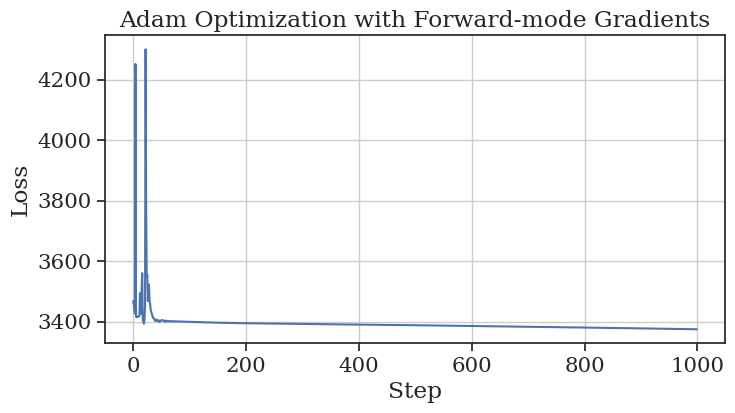
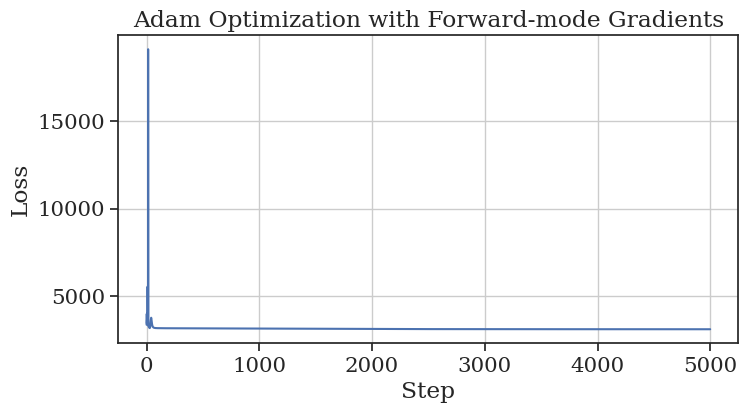
hmc trial

diff --git a/example/ogle-2003-blg-235/3_hmc_run.py b/example/ogle-2003-blg-235/3_hmc_run.py
@@ -1,0 +1,111 @@
+import numpy as np
+import VBBinaryLensing
+import matplotlib.pyplot as plt
+import seaborn as sns
+sns.set_theme(font="serif", style="ticks", font_scale=1.4)
+
+import jax.numpy as jnp
+import jax
+from jax import jit, jacfwd
+jax.config.update("jax_enable_x64", True)
+
+from microjax.inverse_ray.lightcurve import mag_binary
+from microjax.likelihood import nll_ulens
+import corner
+
+# --- データ読み込み ---
+data_moa  = np.load("example/ogle-2003-blg-235/flux_moa.npy")
+data_ogle = np.load("example/ogle-2003-blg-235/flux_ogle.npy")
+fs_ogle, fb_ogle = 9.072, 2.856
+t_moa, flux_moa, fluxe_moa = data_moa[0] - 2450000, data_moa[1], data_moa[2]
+t_ogle, flux_ogle, fluxe_ogle = data_ogle[0] - 2450000, data_ogle[1], data_ogle[2]
+t_data     = np.hstack([t_moa, t_ogle])
+flux_data  = np.hstack([flux_moa, flux_ogle])
+fluxe_data = np.hstack([fluxe_moa, fluxe_ogle])
+data_input = (t_data, flux_data, fluxe_data)
+
+#exit(1)
+# define time function
+@jit
+def mag_binary_time(time, params):
+    t0, tE, u0  = params[0:3]
+    q, s, alpha = params[3:6]
+    rho = params[6]
+    tau = (time - t0)/tE
+    y1 = -u0*jnp.sin(alpha) + tau*jnp.cos(alpha)
+    y2 = u0*jnp.cos(alpha) + tau*jnp.sin(alpha) 
+    w_points = jnp.array(y1 + y2 * 1j, dtype=complex)
+    
+    Nlimb = 500
+    r_resolution  = 500
+    th_resolution = 500
+    MAX_FULL_CALLS = 20
+    cubic = True
+    bins_r = 50
+    bins_th = 120
+    margin_r = 1.0
+    margin_th= 1.0
+    
+    magn = mag_binary(w_points, rho, s=s, q=q, r_resolution=r_resolution, 
+                      th_resolution=th_resolution,cubic=cubic, Nlimb=Nlimb, 
+                      bins_r=bins_r, bins_th=bins_th, margin_r=margin_r, margin_th=margin_th, 
+                      MAX_FULL_CALLS=MAX_FULL_CALLS)
+    return magn
+
+import numpyro
+import numpyro.distributions as dist
+from numpyro.infer import MCMC, NUTS
+
+def model(data, L, init_val):
+    times, flux, fluxe = data
+    param_base = numpyro.sample('param_base', dist.Uniform(-1*jnp.ones(len(init_val)), jnp.ones(len(init_val))))
+    param_true = jnp.dot(L * 100, param_base) + jnp.array(init_val)
+    numpyro.deterministic('param',param_true)
+    mags = mag_binary_time(times, param_true)
+    M = jnp.stack([mags - 1.0, jnp.ones_like(mags)], axis=1)
+    sigma2_obs = fluxe ** 2
+    sigma2_fs = 1e9
+    sigma2_fb = 1e9
+    nll = nll_ulens(flux, M, sigma2_obs, sigma2_fs, sigma2_fb)
+    numpyro.factor("log_likelihood", -nll)
+
+params_init = np.load("example/ogle-2003-blg-235/adam_fwd_params.npz")
+print(list(params_init.keys()))
+params_init = jnp.array([params_init["t0"], params_init["tE"], params_init["u0"],
+                         10**params_init["log_q"], 10**params_init["log_s"], 
+                         params_init["alpha"], 10**params_init["log_rho"]])
+print(params_init)
+fisher_matrix = np.load("example/ogle-2003-blg-235/fisher_matrix.npy")
+fisher_cov = jnp.linalg.inv(fisher_matrix)
+L = jnp.linalg.cholesky(fisher_cov + 1e-9 * jnp.eye(fisher_cov.shape[0]) )
+param_stddev = jnp.sqrt(jnp.diag(fisher_cov))
+print("1 sigma:\n", param_stddev)
+print("fisher_cov:", fisher_cov)
+print("cholesky:", L)
+
+from numpyro.infer import init_to_value
+init_strategy=numpyro.infer.init_to_value(values={'param_base':jnp.zeros(len(params_init))})
+kernel = NUTS(model,
+              init_strategy=init_strategy, 
+              forward_mode_differentiation=True,
+              target_accept_prob=0.8,
+              #inverse_mass_matrix=fisher_matrix,
+              #dense_mass=True,
+              )
+
+mcmc = MCMC(kernel, num_warmup=500, num_samples=1000, num_chains=1, progress_bar=True)
+mcmc.run(jax.random.PRNGKey(0), data=data_input, L=L, init_val=params_init)
+mcmc.print_summary(exclude_deterministic=False)
+
+import pandas as pd
+samples = mcmc.get_samples()
+df_samples = pd.DataFrame({k: np.array(v).flatten() for k, v in samples.items()})
+df_samples.to_csv("example/ogle-2003-blg-235/hmc_samples.csv", index=False)
+
+import corner
+hmc_sample = mcmc.get_samples()['param']
+print(hmc_sample.shape)
+corner_params = ["t0", "u0", "tE", "q", "s", "alpha", "rho"]
+fig = corner.corner(np.array(hmc_sample), labels=corner_params, show_titles=True, title_fmt=".3f", title_kwargs={"fontsize": 12})
+fig.savefig("example/ogle-2003-blg-235/hmc_corner_plot.png", bbox_inches="tight")
+plt.close()

diff --git a/example/ogle-2003-blg-235/2_derive_fisher.py b/example/ogle-2003-blg-235/2_derive_fisher.py
@@ -34,7 +34,7 @@ def dict_to_array(params_dict):
 def array_to_dict(params_array):
     return {k: v for k, v in zip(param_keys, params_array)}
 
-# --- 初期パラメータ（dict形式とarray形式） ---
+# {'alpha': array(3.94610881), 'log_q': array(-2.34634473), 'log_rho': array(-3.99074251), 'log_s': array(-0.05999554), 't0': array(2848.06685328), 'tE': array(61.54353175), 'u0': array(0.13737328)}
 params_init_dict = {
     "t0": 2848.16048754,
     "tE": 61.61235588,
@@ -61,39 +61,41 @@ def mag_binary_time(time, theta):
     
     magn = mag_binary(
         w_points, rho, s=s, q=q,
-        r_resolution=100, th_resolution=100,
+        r_resolution=500, th_resolution=500,
         cubic=True, Nlimb=500,
         bins_r=50, bins_th=120,
         margin_r=1.0, margin_th=1.0,
-        MAX_FULL_CALLS=30)
+        MAX_FULL_CALLS=50, chunk_size=10)
     return magn
 
 # --- NLL関数（パラメータはarray） ---
 times, fluxs, fluxes = data_input
 
+@jit
 def nll_fn(theta_array):
     mags = mag_binary_time(times, theta_array)
     M = jnp.stack([mags - 1.0, jnp.ones_like(mags)], axis=1)
-    return nll_ulens(fluxs, M, fluxes**2, 1e9, 1e9)
+    return nll_ulens(fluxs, M, fluxes**2, jnp.array(1e9), jnp.array(1e9))
 
 # --- Forward-mode Hessian（jacfwd x2） ---
+from jax import make_jaxpr
 hessian_fn = jacfwd(jacfwd(nll_fn))
+#jaxpr = make_jaxpr(hessian_fn)(params_init)
+#print(jaxpr)
 fisher_matrix = hessian_fn(params_init)
-#jac = jacfwd(nll_fn)(params_init) 
-#fisher_matrix = jnp.outer(jac, jac)
 fisher_cov = jnp.linalg.inv(fisher_matrix)
 param_stddev = jnp.sqrt(jnp.diag(fisher_cov))
-
-print("Fisher matrix:\n", fisher_matrix)
-print("Fisher covariance:\n", fisher_cov)
 print("1 sigma:\n", param_stddev)
 
-# --- Corner plot 用の可視化 ---
-mean = np.array(params_init)
-cov = np.array(fisher_cov)
-samples = np.random.multivariate_normal(mean, cov*10, size=2000)
+fisher_matrix = np.array(fisher_matrix)
+np.save("example/ogle-2003-blg-235/fisher_matrix", fisher_matrix)
 
-labels = [r"$t_0$", r"$t_E$", r"$u_0$", r"$q$", r"$s$", r"$\alpha$", r"$\rho$"]
-fig = corner.corner(samples, labels=labels, truths=mean, show_titles=True, title_fmt=".4f")
-fig.savefig("example/ogle-2003-blg-235/hessian_corner_plot.png", bbox_inches="tight")
-plt.show()
+if(0):
+    mean = np.array(params_init)
+    cov = np.array(fisher_cov)
+    samples = np.random.multivariate_normal(mean, cov*10, size=2000)
+
+    labels = [r"$t_0$", r"$t_E$", r"$u_0$", r"$q$", r"$s$", r"$\alpha$", r"$\rho$"]
+    fig = corner.corner(samples, labels=labels, truths=mean, show_titles=True, title_fmt=".4f")
+    fig.savefig("example/ogle-2003-blg-235/hessian_corner_plot.png", bbox_inches="tight")
+    plt.show()

diff --git a/example/ogle-2003-blg-235/run_svi.py b/example/ogle-2003-blg-235/run_svi.py
@@ -34,9 +34,9 @@ def mag_binary_time(time, params):
 
     magn = mag_binary(
         w_points, rho, s=s, q=q,
-        r_resolution=200, th_resolution=200,
+        r_resolution=500, th_resolution=500,
         cubic=True, Nlimb=500, bins_r=50, bins_th=120,
-        margin_r=1.0, margin_th=1.0, MAX_FULL_CALLS=20
+        margin_r=1.0, margin_th=1.0, MAX_FULL_CALLS=50
     )
     return magn
 
@@ -79,10 +79,10 @@ params_init = {
 #guide = AutoBNAFNormal(model_prob, init_loc_fn=init_to_value(values=params_init))
 #guide = AutoLowRankMultivariateNormal(model_prob, init_loc_fn=init_to_value(values=params_init))
 guide = AutoMultivariateNormal(model_prob, init_loc_fn=init_to_value(values=params_init))
-optimizer = optim.Adam(1e-3)
+optimizer = optim.Adam(1e-2)
 svi = SVI(model_prob, guide, optimizer, loss=Trace_ELBO())
 
-num_steps = 5000
+num_steps = 10000
 rng_key = random.PRNGKey(0)
 svi_result = svi.run(rng_key, num_steps, data=data_input, forward_mode_differentiation=True)
 
@@ -91,7 +91,7 @@ print(params_np.keys())
 np.savez("example/ogle-2003-blg-235/svi_params.npz", **params_np)
 
 from numpyro.infer import Predictive
-predictive = Predictive(guide, params=svi_result.params, num_samples=5000)
+predictive = Predictive(guide, params=svi_result.params, num_samples=10000)
 posterior_samples = predictive(random.PRNGKey(1), data=data_input)
 #print_summary(posterior_samples)
 posterior_samples.keys()

diff --git a/example/ogle-2003-blg-235/1_opt_adam.py b/example/ogle-2003-blg-235/1_opt_adam.py
@@ -74,7 +74,7 @@ def forward_grad(loss_fn, params, data):
     grads = unravel_fn(grad_flat)
     return grads
 
-optimizer = optax.adam(1e-3)
+optimizer = optax.adam(1e-2)
 opt_state = optimizer.init(params_init)
 
 @jit
@@ -87,10 +87,10 @@ def update(params, opt_state, data):
 
 params = params_init
 losses = []
-for step in range(1000):
+for step in range(5000):
     params, opt_state, loss = update(params, opt_state, data_input)
     losses.append(loss)
-    if step % 10 == 0:
+    if step % 5 == 0:
         print(f"Step {step}, Loss: {loss:.3f}")
 
 params_np = {k: np.array(v) for k, v in params.items()}
